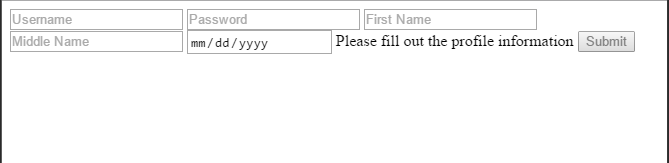
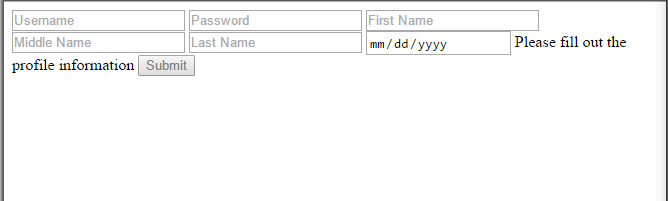
Rewrite

Changed region(s): [[0.0, 0.0, 1.0, 1.0]]

diff --git a/Example-08-nested-forms/index.html b/Example-08-nested-forms/index.html
@@ -1,48 +1,46 @@
 <!DOCTYPE html>
-<html lang="en" ng-app ng-cloak>
+<html lang="en" ng-app>
 <head>
     <meta charset="UTF-8">
     <title>Example 8 - Nested-Forms</title>
-    <style>
-        [ng\:cloak], [ng-cloak], [data-ng-cloak], [x-ng-cloak], .ng-cloak, .x-ng-cloak {
-            display: none !important;
-        }
-    </style>
 </head>
 <body>
-<form novalidate name="myForm">
 
+<form novalidate name="myForm">
     <input type="text"
-           class="username"
-           name="uname"
-           ng-model="ctrl.user.username"
-           required=""
-           placeholder="Username"
-           ng-minlength="4" />
+            class="username"
+            name="uname"
+            ng-model="ctrl.user.username"
+            required=""
+            placeholder="Username"
+            ng-minlength="4" />
     <input type="password"
-           class="password"
-           name="pwd"
-           ng-model="ctrl.user.password"
-           placeholder="Password"
-           required="" />
+            class="password"
+            name="pwd"
+            ng-model="ctrl.user.password"
+            placeholder="Password"
+            required="" />
 
     <ng-form name="profile">
-
         <input type="text"
-               name="firstName"
-               ng-model="ctlr.user.profile.firstName"
-               placeholder="First Name"
-               required>
+                name="firstName"
+                ng-model="ctlr.user.profile.firstName"
+                placeholder="First Name"
+                required>
         <input type="text"
-               name="middleName"
-               ng-model="ctlr.user.profile.middleName"
-               placeholder="Middle Name"
-               required>
+                name="middleName"
+                ng-model="ctlr.user.profile.middleName"
+                placeholder="Middle Name"
+                required>
+        <input type="text"
+                name="lastName"
+                placeholder="Last Name"
+                ng-model="ctrl.user.profile.lastName"
+                required>
         <input type="date"
-               name="dob"
-               placeholder="Date Of Birth"
-               ng-model="ctrl.user.profile.dob">
-
+                name="dob"
+                placeholder="Date Of Birth"
+                ng-model="ctrl.user.profile.dob">
     </ng-form>
 
     <span ng-show="myForm.profile.$invalid">
@@ -53,9 +51,6 @@
            value="Submit"
            ng-disabled="myForm.$invalid"/>
 </form>
-
-
-
 
 <script src="bower_components/angular/angular.min.js"></script>
 </body>
